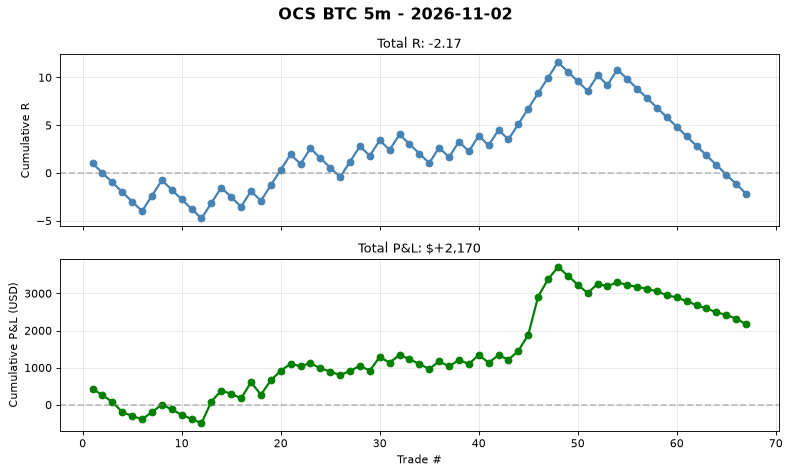
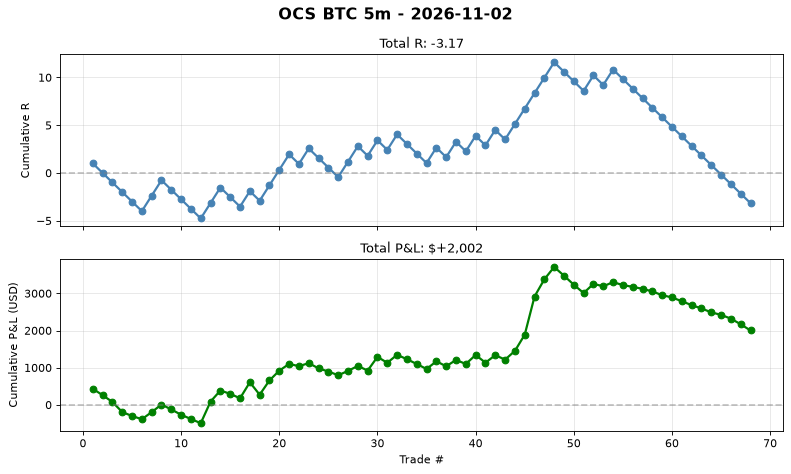
auto(ocs-btc): signal log 2026-11-02T03:48 trades=68

diff --git a/automation/reports/ocs_btc_5m/daily/2026-11-02.md b/automation/reports/ocs_btc_5m/daily/2026-11-02.md
@@ -1,12 +1,12 @@
 # OCS BTC 5m - 2026-11-02
 
 ## Summary
-- **Trades**: 1 (0W / 1L)
+- **Trades**: 2 (0W / 2L)
 - **Win Rate**: 0.0%
-- **Total R**: -1.00R
-- **Total P&L**: $-151
+- **Total R**: -2.00R
+- **Total P&L**: $-319
 - **Avg R**: -1.00R
-- **Profit Factor**: 0.95
+- **Profit Factor**: 0.93
 
 ## Exit Breakdown
 - T1 (+1.0R): 1
@@ -14,7 +14,7 @@
 - T3 (+2.618R): 0
 - T4 (+3.618R): 0
 - T5 (+5.0R): 0
-- SL (-1.0R): 42
+- SL (-1.0R): 43
 
 ## Best Trade
 - **LONG** at 78,162 -> SL 78,011
@@ -27,11 +27,11 @@
 - Held for 4 bars
 
 ## Cumulative Stats (Lifetime)
-- Total trades: 67
-- WR: 37.3%
-- Avg R: -0.032
-- Total R: -2.17R
-- Profit Factor: 0.95
+- Total trades: 68
+- WR: 36.8%
+- Avg R: -0.047
+- Total R: -3.17R
+- Profit Factor: 0.93
 
 ## Chart
 See `daily/2026-11-02.png` for cumulative P&L curve.
